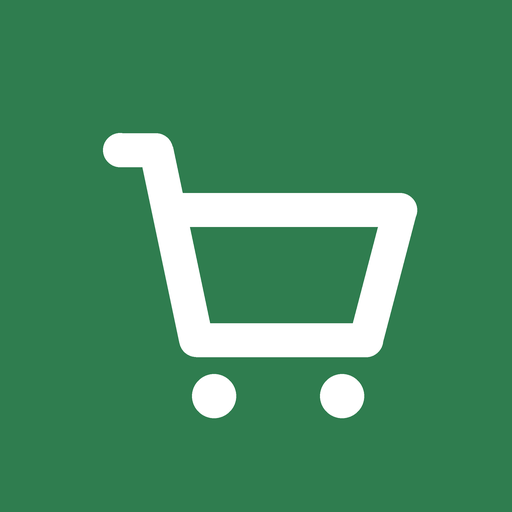
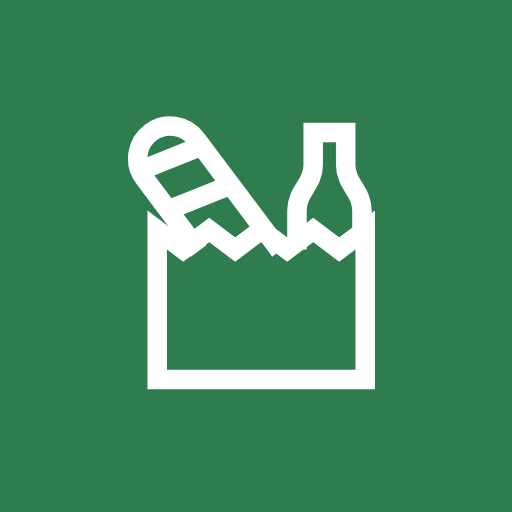
Appikon og UI-ikoner fra UIX Sharp
Claude-Session: https://claude.ai/code/session_01B8mfHcXUGkCFza3HKBksXZ

Changed region(s): [[0.1875, 0.2188, 0.8125, 0.8438]]

diff --git a/public/index.html b/public/index.html
@@ -12,13 +12,31 @@
   <meta name="apple-mobile-web-app-title" content="Handleliste">
   <link rel="apple-touch-icon" href="icon-180.png">
   <link rel="icon" href="icon.svg" type="image/svg+xml">
+  <link rel="icon" href="icon-192.png" type="image/png">
   <link rel="manifest" href="manifest.webmanifest">
   <link rel="stylesheet" href="style.css">
 </head>
 <body>
+  <!-- Ikoner: UIX Sharp (MIT, MD Rakib Shekh) via Iconify -->
+  <svg width="0" height="0" style="position:absolute" aria-hidden="true">
+    <symbol id="i-grocery" viewBox="0 0 24 24"><g fill="none" stroke="currentColor" stroke-linecap="square" stroke-miterlimit="3.5" stroke-width="1.5"><path d="m4 10l2 1.5L8 10l2 1.5l2-1.5l2 1.5l2-1.5l2 1.5l2-1.5v11.5H4Z"/><path d="M6.75 11L3 6a2.5 2.5 0 0 1 4-3l6 8m1.75-.25V8.5C14.75 7 16 6.5 16 5V2.5h2.5V5c0 1.5 1.25 2 1.25 3.5v1.75M6 8l2.5-1M3.75 5l2.5-1"/></g></symbol>
+    <symbol id="i-shopping-list" viewBox="0 0 24 24"><g fill="none" stroke="currentColor" stroke-linecap="square" stroke-miterlimit="3.5" stroke-width="1.5"><path d="M4.5 2.5h15v19h-15Z"/><path d="M7.5 5.5H10V8H7.5Zm0 5.25H10v2.5H7.5Zm0 5.25H10v2.5H7.5Zm5.25-9.25h3.75M12.75 12h3.75m-3.75 5.25H15"/></g></symbol>
+    <symbol id="i-calendar-week" viewBox="0 0 24 24"><path fill="none" stroke="currentColor" stroke-linecap="square" stroke-miterlimit="3.5" stroke-width="1.5" d="M3 3.5h18v18H3ZM8 2v3.5M16 2v3.5m-13 2h18M7 11h10M7 14.25h10M7 17.5h10"/></symbol>
+    <symbol id="i-settings" viewBox="0 0 24 24"><g fill="none" stroke="currentColor" stroke-linecap="square" stroke-miterlimit="3.5" stroke-width="1.5"><path d="m10.474 4.912l.261-2.327h2.53l.261 2.327l2.407.997l1.83-1.461l1.789 1.789l-1.461 1.83l.997 2.407l2.327.261v2.53l-2.327.261l-.997 2.407l1.461 1.83l-1.789 1.789l-1.83-1.461l-2.407.997l-.261 2.327h-2.53l-.261-2.327l-2.407-.997l-1.83 1.461l-1.789-1.789l1.461-1.83l-.997-2.407l-2.327-.261v-2.53l2.327-.261l.997-2.407l-1.461-1.83l1.789-1.789l1.83 1.461Z"/><path d="M9 12a3 3 0 1 0 6 0a3 3 0 1 0-6 0Z"/></g></symbol>
+    <symbol id="i-close" viewBox="0 0 24 24"><path fill="none" stroke="currentColor" stroke-linecap="square" stroke-miterlimit="3.5" stroke-width="1.5" d="m5.5 5.5l13 13m0-13l-13 13"/></symbol>
+    <symbol id="i-chevron-left" viewBox="0 0 24 24"><path fill="none" stroke="currentColor" stroke-linecap="square" stroke-miterlimit="3.5" stroke-width="1.5" d="M15 18.5L8.5 12L15 5.5"/></symbol>
+    <symbol id="i-chevron-right" viewBox="0 0 24 24"><path fill="none" stroke="currentColor" stroke-linecap="square" stroke-miterlimit="3.5" stroke-width="1.5" d="m9 5.5l6.5 6.5L9 18.5"/></symbol>
+    <symbol id="i-plus" viewBox="0 0 24 24"><path fill="none" stroke="currentColor" stroke-linecap="square" stroke-miterlimit="3.5" stroke-width="1.5" d="M12 4v16m-8-8h16"/></symbol>
+    <symbol id="i-external-link" viewBox="0 0 24 24"><path fill="none" stroke="currentColor" stroke-linecap="square" stroke-miterlimit="3.5" stroke-width="1.5" d="M11 4.5H7.5a3 3 0 0 0-3 3v9a3 3 0 0 0 3 3h9a3 3 0 0 0 3-3V13M11 13l8.5-8.5m-5.5 0h5.5V10"/></symbol>
+    <symbol id="i-share-ios" viewBox="0 0 24 24"><path fill="none" stroke="currentColor" stroke-linecap="square" stroke-miterlimit="3.5" stroke-width="1.5" d="M8.5 9h-2a2 2 0 0 0-2 2v8a2 2 0 0 0 2 2h11a2 2 0 0 0 2-2v-8a2 2 0 0 0-2-2h-2M12 2.5v12M8.5 6L12 2.5L15.5 6"/></symbol>
+    <symbol id="i-calendar-sync" viewBox="0 0 24 24"><g fill="none" stroke="currentColor" stroke-linecap="square" stroke-miterlimit="3.5" stroke-width="1.5"><path d="M3.5 5h17v15.5h-17ZM8 3v4m8-4v4M3.5 10h17"/><path d="M9.835 14a2.5 2.5 0 0 1 4.665 1.25"/><path d="m13.25 14l1.25 1.25L15.75 14m-1.585 2.5A2.5 2.5 0 0 1 9.5 15.25"/><path d="m8.25 16.5l1.25-1.25l1.25 1.25"/></g></symbol>
+    <symbol id="i-copy-link" viewBox="0 0 24 24"><g fill="none" stroke="currentColor" stroke-linecap="square" stroke-miterlimit="3.5" stroke-width="1.5"><path d="M8.5 8.5h12v12h-12Z"/><path d="M4 14.5V6a2.5 2.5 0 0 1 2.5-2.5h8M13 12h-.5a2.5 2.5 0 0 0 0 5h.5m3-5h.5a2.5 2.5 0 0 1 0 5H16m-3-2.5h3"/></g></symbol>
+    <symbol id="i-logout" viewBox="0 0 24 24"><path fill="none" stroke="currentColor" stroke-linecap="square" stroke-miterlimit="3.5" stroke-width="1.5" d="M13 6V4.5a2 2 0 0 0-2-2H5.5a2 2 0 0 0-2 2v15a2 2 0 0 0 2 2H11a2 2 0 0 0 2-2V18m-5-6h13m-3.5-3.5L21 12l-3.5 3.5"/></symbol>
+  </svg>
   <!-- Oppstart: lag eller bli med i familie -->
   <section id="join" class="screen" hidden>
     <div class="join-card">
+      <img src="icon.svg" alt="" class="join-logo" width="72" height="72">
       <h1>Handleliste</h1>
       <p class="muted">Alle som bruker samme familiekode ser den samme listen og ukemenyen, med en gang.</p>
       <button id="createBtn" class="primary wide">Lag ny familie</button>
@@ -40,7 +58,7 @@
       <h1 id="title">Handleliste</h1>
       <span id="conn" class="conn" title="Tilkobling"></span>
       <button id="settingsBtn" class="icon-btn" aria-label="Innstillinger">
-        <svg viewBox="0 0 24 24" width="22" height="22" fill="none" stroke="currentColor" stroke-width="2" stroke-linecap="round" stroke-linejoin="round"><circle cx="12" cy="12" r="3"/><path d="M19.4 15a1.7 1.7 0 0 0 .3 1.8l.1.1a2 2 0 1 1-2.8 2.8l-.1-.1a1.7 1.7 0 0 0-1.8-.3 1.7 1.7 0 0 0-1 1.5V21a2 2 0 1 1-4 0v-.1a1.7 1.7 0 0 0-1.1-1.5 1.7 1.7 0 0 0-1.8.3l-.1.1a2 2 0 1 1-2.8-2.8l.1-.1a1.7 1.7 0 0 0 .3-1.8 1.7 1.7 0 0 0-1.5-1H3a2 2 0 1 1 0-4h.1a1.7 1.7 0 0 0 1.5-1.1 1.7 1.7 0 0 0-.3-1.8l-.1-.1a2 2 0 1 1 2.8-2.8l.1.1a1.7 1.7 0 0 0 1.8.3H9a1.7 1.7 0 0 0 1-1.5V3a2 2 0 1 1 4 0v.1a1.7 1.7 0 0 0 1 1.5 1.7 1.7 0 0 0 1.8-.3l.1-.1a2 2 0 1 1 2.8 2.8l-.1.1a1.7 1.7 0 0 0-.3 1.8V9a1.7 1.7 0 0 0 1.5 1H21a2 2 0 1 1 0 4h-.1a1.7 1.7 0 0 0-1.5 1z"/></svg>
+        <svg class="i" aria-hidden="true"><use href="#i-settings"/></svg>
       </button>
     </header>
 
@@ -54,7 +72,7 @@
 
         <form id="addForm" class="add">
           <input id="addInput" placeholder="Legg til vare…" autocomplete="off" enterkeyhint="done" maxlength="200">
-          <button class="primary" aria-label="Legg til">+</button>
+          <button class="primary" aria-label="Legg til"><svg class="i" aria-hidden="true"><use href="#i-plus"/></svg></button>
         </form>
         <ul id="suggest" class="suggest" aria-label="Forslag"></ul>
 
@@ -69,18 +87,18 @@
           <ul id="done" class="items done"></ul>
         </div>
 
-        <a id="odaLink" class="oda-link" href="https://oda.com/no/" target="_blank" rel="noopener" hidden>Åpne Oda ↗</a>
+        <a id="odaLink" class="oda-link" href="https://oda.com/no/" target="_blank" rel="noopener" hidden>Åpne Oda <svg class="i sm" aria-hidden="true"><use href="#i-external-link"/></svg></a>
       </div>
 
       <!-- Ukemeny -->
       <div id="view-menu" class="view" hidden>
         <div class="week-nav">
-          <button id="prevWeek" class="icon-btn" aria-label="Forrige uke">‹</button>
+          <button id="prevWeek" class="icon-btn" aria-label="Forrige uke"><svg class="i" aria-hidden="true"><use href="#i-chevron-left"/></svg></button>
           <div>
             <div id="weekLabel" class="week-label"></div>
             <div id="weekDates" class="muted small"></div>
           </div>
-          <button id="nextWeek" class="icon-btn" aria-label="Neste uke">›</button>
+          <button id="nextWeek" class="icon-btn" aria-label="Neste uke"><svg class="i" aria-hidden="true"><use href="#i-chevron-right"/></svg></button>
         </div>
         <button id="thisWeek" class="link-btn center" hidden>Gå til denne uken</button>
         <div id="days" class="days"></div>
@@ -89,11 +107,11 @@
 
     <nav class="tabbar">
       <button data-view="list" class="active">
-        <svg viewBox="0 0 24 24" width="22" height="22" fill="none" stroke="currentColor" stroke-width="2" stroke-linecap="round" stroke-linejoin="round"><path d="M9 6h11M9 12h11M9 18h11"/><path d="m3 6 1 1 2-2M3 12l1 1 2-2M3 18l1 1 2-2"/></svg>
+        <svg class="i" aria-hidden="true"><use href="#i-shopping-list"/></svg>
         Handleliste
       </button>
       <button data-view="menu">
-        <svg viewBox="0 0 24 24" width="22" height="22" fill="none" stroke="currentColor" stroke-width="2" stroke-linecap="round" stroke-linejoin="round"><rect x="3" y="4" width="18" height="17" rx="2"/><path d="M3 9h18M8 2v4M16 2v4"/></svg>
+        <svg class="i" aria-hidden="true"><use href="#i-calendar-week"/></svg>
         Ukemeny
       </button>
     </nav>
@@ -110,15 +128,16 @@
       <h3>Familiekode</h3>
       <div class="code-box"><code id="codeShow"></code></div>
       <p class="muted small">Del koden (eller lenken) med resten av familien. Alle med koden kan se og endre listene.</p>
-      <button type="button" id="shareBtn" class="primary wide">Del invitasjonslenke</button>
+      <button type="button" id="shareBtn" class="primary wide"><svg class="i" aria-hidden="true"><use href="#i-share-ios"/></svg> Del invitasjonslenke</button>
 
       <h3>Kalender på iPhone</h3>
       <p class="muted small">Abonner på ukemenyen i Kalender-appen. Middagene dukker opp som heldagshendelser og oppdateres automatisk.</p>
-      <a id="webcalLink" class="btn wide">Abonner i Kalender</a>
-      <button type="button" id="copyCal" class="link-btn">Kopier kalenderadresse</button>
+      <a id="webcalLink" class="btn wide"><svg class="i" aria-hidden="true"><use href="#i-calendar-sync"/></svg> Abonner i Kalender</a>
+      <button type="button" id="copyCal" class="link-btn"><svg class="i sm" aria-hidden="true"><use href="#i-copy-link"/></svg> Kopier kalenderadresse</button>
 
       <h3>Bytt familie</h3>
-      <button type="button" id="leaveBtn" class="danger wide">Forlat familien på denne enheten</button>
+      <button type="button" id="leaveBtn" class="danger wide"><svg class="i" aria-hidden="true"><use href="#i-logout"/></svg> Forlat familien</button>
+      <p class="muted small">Listene blir liggende for de andre. Du kan bli med igjen med koden.</p>
     </form>
   </dialog>
 

diff --git a/public/style.css b/public/style.css
@@ -37,6 +37,8 @@ body {
   min-height: 100dvh;
 }
 [hidden] { display: none !important; }
+.i { width: 24px; height: 24px; flex: none; vertical-align: -6px; }
+.i.sm { width: 17px; height: 17px; vertical-align: -3px; }
 button, input { font: inherit; color: inherit; }
 button { cursor: pointer; }
 h1, h2, h3 { margin: 0; }
@@ -55,6 +57,7 @@ input {
 }
 input:focus { border-color: var(--accent); }
 
+.primary .i, .btn .i, .danger .i { margin-right: 6px; }
 .primary, .btn, .danger {
   border: 0;
   border-radius: 12px;
@@ -79,8 +82,10 @@ input:focus { border-color: var(--accent); }
 #join { display: grid; place-items: center; min-height: 100dvh; padding: 24px 16px; }
 .join-card { width: 100%; max-width: 420px; display: grid; gap: 16px; }
 .join-card h1 { font-size: 32px; }
+.join-logo { border-radius: 18px; }
 .join-card label { display: block; margin-bottom: 8px; font-weight: 600; }
 .row { display: flex; gap: 8px; }
+.row .primary { flex: none; white-space: nowrap; }
 .or { text-align: center; color: var(--muted); position: relative; }
 .or::before { content: ""; position: absolute; left: 0; right: 0; top: 50%; border-top: 1px solid var(--line); }
 .or span { background: var(--bg); padding: 0 10px; position: relative; }
@@ -114,6 +119,7 @@ main { padding: 0 16px; }
   padding: 8px 0 10px; font-size: 12px; color: var(--muted);
 }
 .tabbar button.active { color: var(--accent); }
+.tabbar .i { width: 26px; height: 26px; }
 
 /* Handleliste */
 .seg {
@@ -125,13 +131,14 @@ main { padding: 0 16px; }
 .count { font-weight: 500; color: var(--muted); font-size: 14px; }
 
 .add { display: flex; gap: 8px; margin-bottom: 14px; }
-.add .primary { width: 50px; padding: 0; font-size: 26px; flex: none; }
+.add .primary { width: 50px; padding: 0; flex: none; display: grid; place-items: center; }
+.add .primary .i { width: 28px; height: 28px; }
 
 .suggest { list-style: none; margin: -6px 0 14px; padding: 0; display: flex; flex-wrap: wrap; gap: 8px; }
 .suggest:empty { display: none; }
 .suggest li { display: flex; align-items: center; background: var(--accent-soft); border-radius: 999px; }
 .suggest .pick { background: none; border: 0; padding: 8px 4px 8px 14px; font-weight: 500; }
-.suggest .forget { background: none; border: 0; padding: 8px 12px 8px 6px; color: var(--muted); font-size: 18px; line-height: 1; }
+.suggest .forget { background: none; border: 0; padding: 8px 12px 8px 6px; color: var(--muted); display: grid; place-items: center; }
 
 .items { list-style: none; margin: 0; padding: 0; background: var(--surface); border-radius: 14px; box-shadow: var(--shadow); overflow: hidden; }
 .items:empty { display: none; }
@@ -149,7 +156,8 @@ main { padding: 0 16px; }
 .done .box::after { content: ""; width: 6px; height: 11px; border: solid var(--accent-ink); border-width: 0 2.5px 2.5px 0; transform: translateY(-1px) rotate(45deg); }
 .txt { overflow-wrap: anywhere; }
 .done .txt { color: var(--muted); text-decoration: line-through; }
-.del { flex: none; background: none; border: 0; color: var(--muted); font-size: 22px; padding: 10px 14px; }
+.del { flex: none; background: none; border: 0; color: var(--muted); padding: 10px 14px; display: grid; place-items: center; }
+.del .i { width: 20px; height: 20px; }
 
 .empty { text-align: center; color: var(--muted); margin: 32px 0; }
 .done-head { display: flex; align-items: baseline; justify-content: space-between; margin: 22px 2px 6px; }

diff --git a/public/app.js b/public/app.js
@@ -3,6 +3,7 @@
 const $ = (s) => document.querySelector(s);
 const CODE_RE = /^[a-z0-9æøå-]{6,40}$/;
 const DAYS = ["Mandag", "Tirsdag", "Onsdag", "Torsdag", "Fredag", "Lørdag", "Søndag"];
+const icon = (name, cls = "i") => `<svg class="${cls}" aria-hidden="true"><use href="#i-${name}"/></svg>`;
 const MONTHS = ["jan", "feb", "mar", "apr", "mai", "jun", "jul", "aug", "sep", "okt", "nov", "des"];
 
 const store = {
@@ -164,7 +165,7 @@ function itemEl(it) {
   const del = document.createElement("button");
   del.className = "del";
   del.setAttribute("aria-label", "Slett " + it.text);
-  del.textContent = "×";
+  del.innerHTML = icon("close");
   del.onclick = () => {
     state.items = state.items.filter((i) => i.id !== it.id);
     renderList();
@@ -254,7 +255,7 @@ function renderSuggest() {
     const forget = document.createElement("button");
     forget.type = "button";
     forget.className = "forget";
-    forget.textContent = "×";
+    forget.innerHTML = icon("close", "i sm");
     forget.setAttribute("aria-label", `Glem «${h.text}»`);
     forget.onclick = () => {
       delete state.history[h.text.toLowerCase()];
@@ -320,7 +321,7 @@ function renderMenu() {
         <div class="day-head"><span class="day-name"></span><span class="muted small"></span></div>
         <input class="dish" placeholder="Rett" maxlength="200" enterkeyhint="next">
         <input class="link" placeholder="Link til oppskrift" type="url" inputmode="url" autocapitalize="off" maxlength="1000" enterkeyhint="done">
-        <a class="recipe" target="_blank" rel="noopener" hidden>Åpne oppskrift ↗</a>`;
+        <a class="recipe" target="_blank" rel="noopener" hidden>Åpne oppskrift ${icon("external-link", "i sm")}</a>`;
       card.querySelector(".day-name").textContent = name;
       if (i === 4) card.querySelector(".dish").placeholder = "Taco"; // fredagstaco
       card.querySelector(".muted").textContent = fmt(date);

diff --git a/README.md b/README.md
@@ -27,3 +27,7 @@ npm run deploy     # gir en adresse som https://handleliste.<konto>.workers.dev
 ```
 
 Åpne adressen i Safari på iPhone → Del → **Legg til på Hjem-skjerm**.
+
+## Ikoner
+
+Appikon og ikoner i appen er fra [UIX Sharp](https://github.com/mdrakibshekh/uix-icons) av MD Rakib Shekh (MIT-lisens), hentet via Iconify. Appikonet bruker `uix-sharp:category-grocery`.
